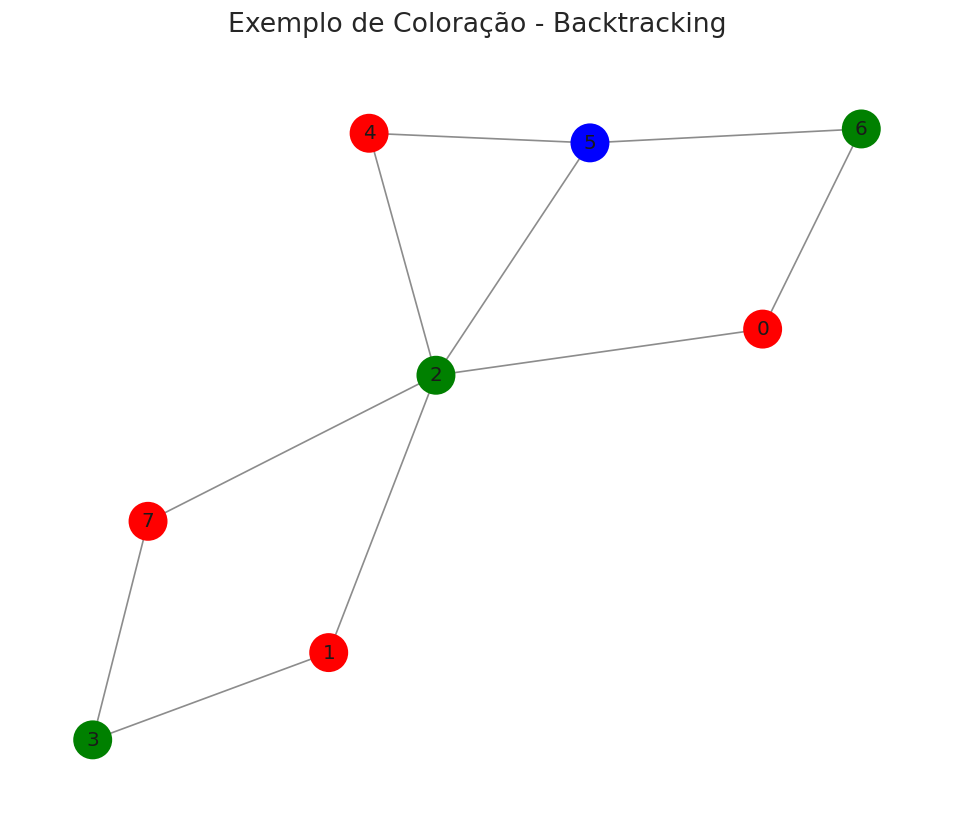
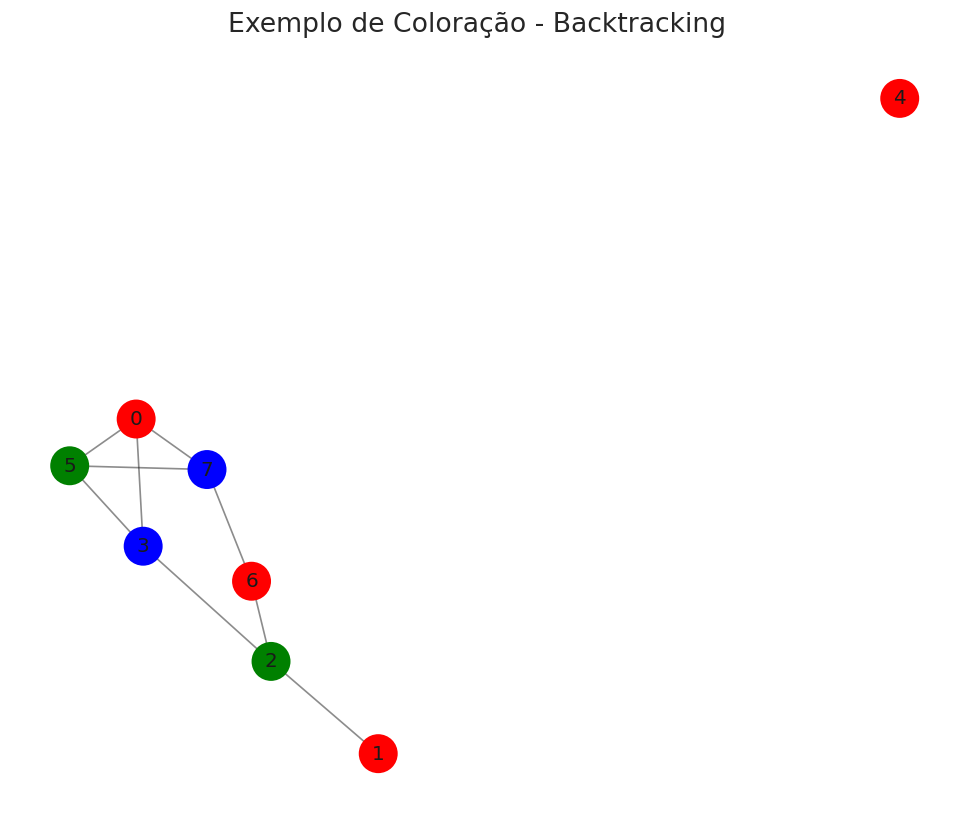
feat: new greedy

diff --git a/src/guloso.py b/src/guloso.py
@@ -192,66 +192,23 @@ def greedy_coloring(adjacency_list: dict, colors: list) -> list:
     return vertex_colors
 
 
-def plot_mst(mst: list, vertex_colors: list, num_vertices: int):
-    """
-    Plota a MST com vértices coloridos e arestas rotuladas com seus pesos.
-    
-    Args:
-        mst: Lista de arestas da MST.
-        vertex_colors: Lista de cores dos vértices.
-        num_vertices: Número de vértices no grafo.
-    """
-    G = nx.Graph()
-    G.add_nodes_from(range(num_vertices))
-    for u, v, w in mst:
-        G.add_edge(u, v, weight=w)
-    
-    plt.figure(figsize=(10, 8))
-    pos = nx.spring_layout(G)  # Layout para posicionar os vértices
-    nx.draw_networkx_nodes(G, pos, node_color=[vertex_colors[v] for v in G.nodes()], node_size=200)
-    nx.draw_networkx_edges(G, pos)
-    nx.draw_networkx_labels(G, pos)
-    edge_labels = nx.get_edge_attributes(G, 'weight')
-    nx.draw_networkx_edge_labels(G, pos, edge_labels=edge_labels)
-    plt.show()
+def greedy_coloring_by_degree(adjacency_list: dict, colors: list) -> list:
+    num_vertices = len(adjacency_list)
+    vertex_degrees = [(v, len(adjacency_list[v])) for v in range(num_vertices)]
+    sorted_vertices = [v for v, _ in sorted(vertex_degrees, key=lambda x: x[1], reverse=True)]
+    vertex_colors = [None] * num_vertices
+    for vertex in sorted_vertices:
+        used_colors = {vertex_colors[neighbor] for neighbor in adjacency_list[vertex] 
+                       if vertex_colors[neighbor] is not None}
+        for color in colors:
+            if color not in used_colors:
+                vertex_colors[vertex] = color
+                break
+    return vertex_colors
 
-# --- Função Principal ---
-def main():
-    """
-    Função principal que gera um grafo, calcula a MST, colore os vértices e plota a MST.
-    """
-    num_vertices = 200  # Número de vértices
-    density = 0.1  # Densidade de arestas extras
-
-    # Gera o grafo
-    graph = Graph()
-    
-    graph.generate_graph(num_vertices, density)
-
-    print(graph.get_edges())
-
-    # Calcula a MST
-    mst = kruskal(graph)
-
-    # Constrói a lista de adjacência da MST e colore os vértices
-    mst_adj_list = build_mst_adjacency_list(mst, num_vertices)
-    vertex_colors = greedy_coloring(mst_adj_list, colors)
-
-    # Exibe informações no console
-    print("Arestas da MST:")
-    for u, v, w in mst:
-        print(f"{u} - {v} : {w}")
-    print("\nColoração dos vértices da MST:")
-    for vertex, color in enumerate(vertex_colors):
-        print(f"Vértice {vertex}: {color}")
-
-    # Plota a MST
-    plot_mst(mst, vertex_colors, num_vertices)
-
-
-def executar_experimentos():
+def executar_guloso():
     """Executa experimentos do algoritmo guloso"""
-    tamanhos_grafos = [5, 8, 10, 12, 15]
+    tamanhos_grafos = [10, 15, 20, 25, 50]
     resultados = []
     
     print("\n🚀 Iniciando experimentos de coloração de grafos (Guloso)...")
@@ -283,9 +240,43 @@ def executar_experimentos():
     
     return resultados
 
+def executar_guloso_por_grau():
+    """Executa experimentos do algoritmo guloso"""
+    tamanhos_grafos = [10, 15, 20, 25, 50]
+    resultados = []
+    
+    print("\n🚀 Iniciando experimentos de coloração de grafos (Guloso)...")
+    print("| Vértices | Tempo (ms) | Memória (KB) |")
+    print("|----------|------------|--------------|")
+    
+    for num_vertices in tamanhos_grafos:
+        inicio_tempo = time.perf_counter()
+        tracemalloc.start()
+        
+        graph = Graph()
+        graph.generate_graph(num_vertices, 0.4)
+        
+        # CORREÇÃO: Usar o grafo original (não a MST)
+        adj_list = graph.get_adjacency_list()
+        # Remover pesos das arestas
+        adj_list_unweighted = {
+            v: [neighbor for neighbor, _ in neighbors] 
+            for v, neighbors in adj_list.items()
+        }
+        vertex_colors = greedy_coloring_by_degree(adj_list_unweighted, colors)
+        
+        memoria = tracemalloc.get_traced_memory()[1]
+        tracemalloc.stop()
+        tempo = (time.perf_counter() - inicio_tempo) * 1000
+        
+        resultados.append((num_vertices, tempo, memoria))
+        print(f"| {num_vertices:8d} | {tempo:9.2f} | {memoria/1024:11.2f} |")
+    
+    return resultados
+
 
 if __name__ == "__main__":
-    from .results import salvar_resultados
+    # from .results import salvar_resultados
     import tracemalloc
     
     resultados_guloso = executar_experimentos()

diff --git a/src/results.py b/src/results.py
@@ -4,7 +4,7 @@ import os
 import networkx as nx
 import random
 from .backtracking import backtracking_coloring
-from .guloso import greedy_coloring, colors
+from .guloso import greedy_coloring, greedy_coloring_by_degree, colors
 
 # Configuração de estilo para gráficos modernos
 sns.set_theme(style="whitegrid", palette="pastel")
@@ -80,7 +80,7 @@ def gerar_grafo_exemplo(num_vertices=8, densidade=0.4):
     
     return G
 
-def salvar_resultados(resultados_backtracking, resultados_guloso):
+def salvar_resultados(resultados_backtracking, resultados_guloso1, resultados_guloso2):
     """Salva e plota os resultados comparativos"""
     pasta_resultados = 'results'
     os.makedirs(pasta_resultados, exist_ok=True)
@@ -104,28 +104,51 @@ def salvar_resultados(resultados_backtracking, resultados_guloso):
     # Colorir com algoritmo guloso
     cores_guloso = greedy_coloring(adj_list, colors)
     plotar_exemplo_grafo(G, cores_guloso, 
-                        'Exemplo de Coloração - Algoritmo Guloso',
+                        'Exemplo de Coloração - Gulosoem em Ordem',
                         os.path.join(pasta_resultados, 'exemplo_guloso.png'))
     
+    # Colorir com algoritmo guloso por grau
+    cores_guloso_grau = greedy_coloring_by_degree(adj_list, colors)
+    plotar_exemplo_grafo(G, cores_guloso_grau, 
+                        'Exemplo de Coloração - Guloso por Grau',
+                        os.path.join(pasta_resultados, 'exemplo_guloso_grau.png'))    
+
     # Gerar gráficos de desempenho
     vertices = [r[0] for r in resultados_backtracking]
     tempo_back = [r[1] for r in resultados_backtracking]
     mem_back = [r[2]/1024 for r in resultados_backtracking]
     
-    tempo_guloso = [r[1] for r in resultados_guloso]
-    mem_guloso = [r[2]/1024 for r in resultados_guloso]
+    tempo_guloso = [r[1] for r in resultados_guloso1]
+    mem_guloso = [r[2]/1024 for r in resultados_guloso1]
+    
+    tempo_guloso_grau = [r[1] for r in resultados_guloso2]
+    mem_guloso_grau = [r[2]/1024 for r in resultados_guloso2]
     
     print("Salvando gráficos de desempenho...")
-    plotar_comparativo_tempo(
-        vertices, 
-        tempo_back, 
-        tempo_guloso,
-        os.path.join(pasta_resultados, 'comparativo_tempo.png')
-    )
+    # Gráfico de tempo
+    plt.figure(figsize=(12, 8))
+    plt.plot(vertices, tempo_back, 'o-', label='Backtracking Puro', linewidth=3, markersize=10)
+    plt.plot(vertices, tempo_guloso, 's-', label='Algoritmo Guloso', linewidth=3, markersize=10)
+    plt.plot(vertices, tempo_guloso_grau, 'd-', label='Guloso por Grau', linewidth=3, markersize=10)
+    plt.title('Comparação de Tempo de Execução', fontsize=20, pad=20)
+    plt.xlabel('Número de Vértices', fontsize=16, labelpad=15)
+    plt.ylabel('Tempo (ms)', fontsize=16, labelpad=15)
+    plt.legend(fontsize=14)
+    plt.grid(True, alpha=0.3)
+    plt.savefig(os.path.join(pasta_resultados, 'comparativo_tempo.png'), bbox_inches='tight', dpi=120)
+    plt.close()
     
-    plotar_comparativo_memoria(
-        vertices,
-        mem_back,
-        mem_guloso,
-        os.path.join(pasta_resultados, 'comparativo_memoria.png')
-    )
+    # Gráfico de memória
+    plt.figure(figsize=(12, 8))
+    width = 0.25
+    x = range(len(vertices))
+    plt.bar([i - width for i in x], mem_back, width, label='Backtracking Puro', alpha=0.8)
+    plt.bar(x, mem_guloso, width, label='Guloso em Ordem', alpha=0.8)
+    plt.bar([i + width for i in x], mem_guloso_grau, width, label='Guloso por Grau', alpha=0.8)
+    plt.title('Comparação de Uso de Memória', fontsize=20, pad=20)
+    plt.xlabel('Número de Vértices', fontsize=16, labelpad=15)
+    plt.ylabel('Memória (KB)', fontsize=16, labelpad=15)
+    plt.xticks(x, vertices)
+    plt.legend(fontsize=14)
+    plt.savefig(os.path.join(pasta_resultados, 'comparativo_memoria.png'), bbox_inches='tight', dpi=120)
+    plt.close()

diff --git a/main.py b/main.py
@@ -1,5 +1,5 @@
 from src.backtracking import executar_experimentos_bt
-from src.guloso import executar_experimentos
+from src.guloso import executar_guloso, executar_guloso_por_grau    
 from src.results import salvar_resultados
 
 def main():
@@ -11,10 +11,12 @@ def main():
     resultados_backtracking = executar_experimentos_bt()
     
     # Executa experimentos com algoritmo guloso
-    resultados_guloso = executar_experimentos()
+    resultados_guloso = executar_guloso()
+
+    resultados_guloso2 = executar_guloso_por_grau()
     
     # Salva resultados comparativos
-    salvar_resultados(resultados_backtracking, resultados_guloso)
+    salvar_resultados(resultados_backtracking, resultados_guloso, resultados_guloso2)
     
     print("\n✨ Resultados comparativos gerados com sucesso!")
     print("📊 Verifique os gráficos na pasta 'results'")

diff --git a/src/backtracking.py b/src/backtracking.py
@@ -128,7 +128,7 @@ def plot_mst(mst: list, vertex_colors: list, num_vertices: int):
     plt.show()
 
 def executar_experimentos_bt():
-    tamanhos_grafos = [5, 8, 10, 12, 15]
+    tamanhos_grafos = [10, 15, 20, 25, 50]
     resultados = []
 
     print("\n🚀 Iniciando experimentos de coloração de grafos (Backtracking)...")
